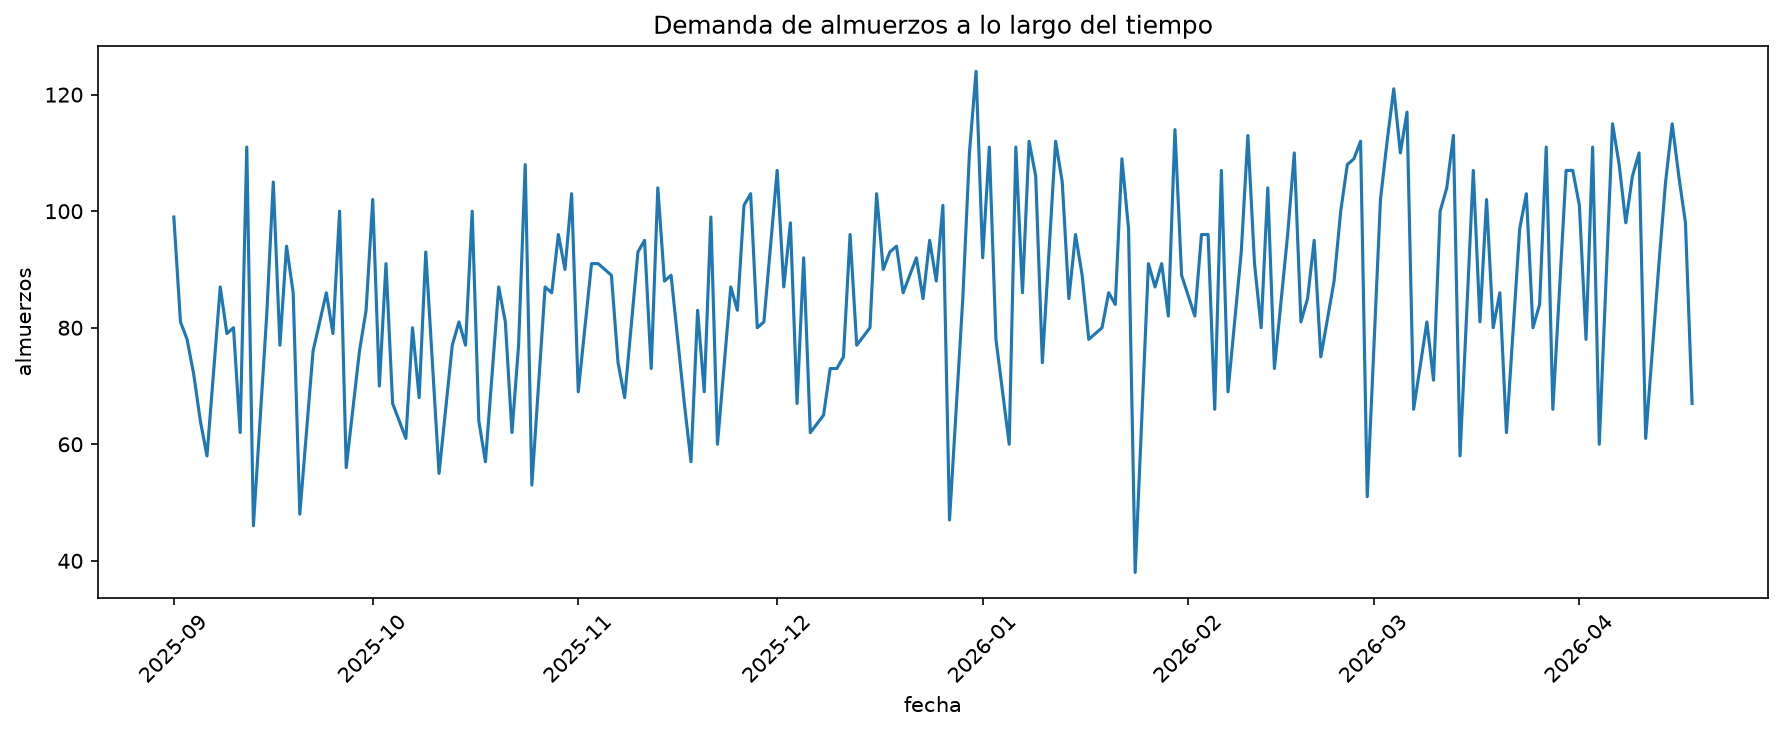
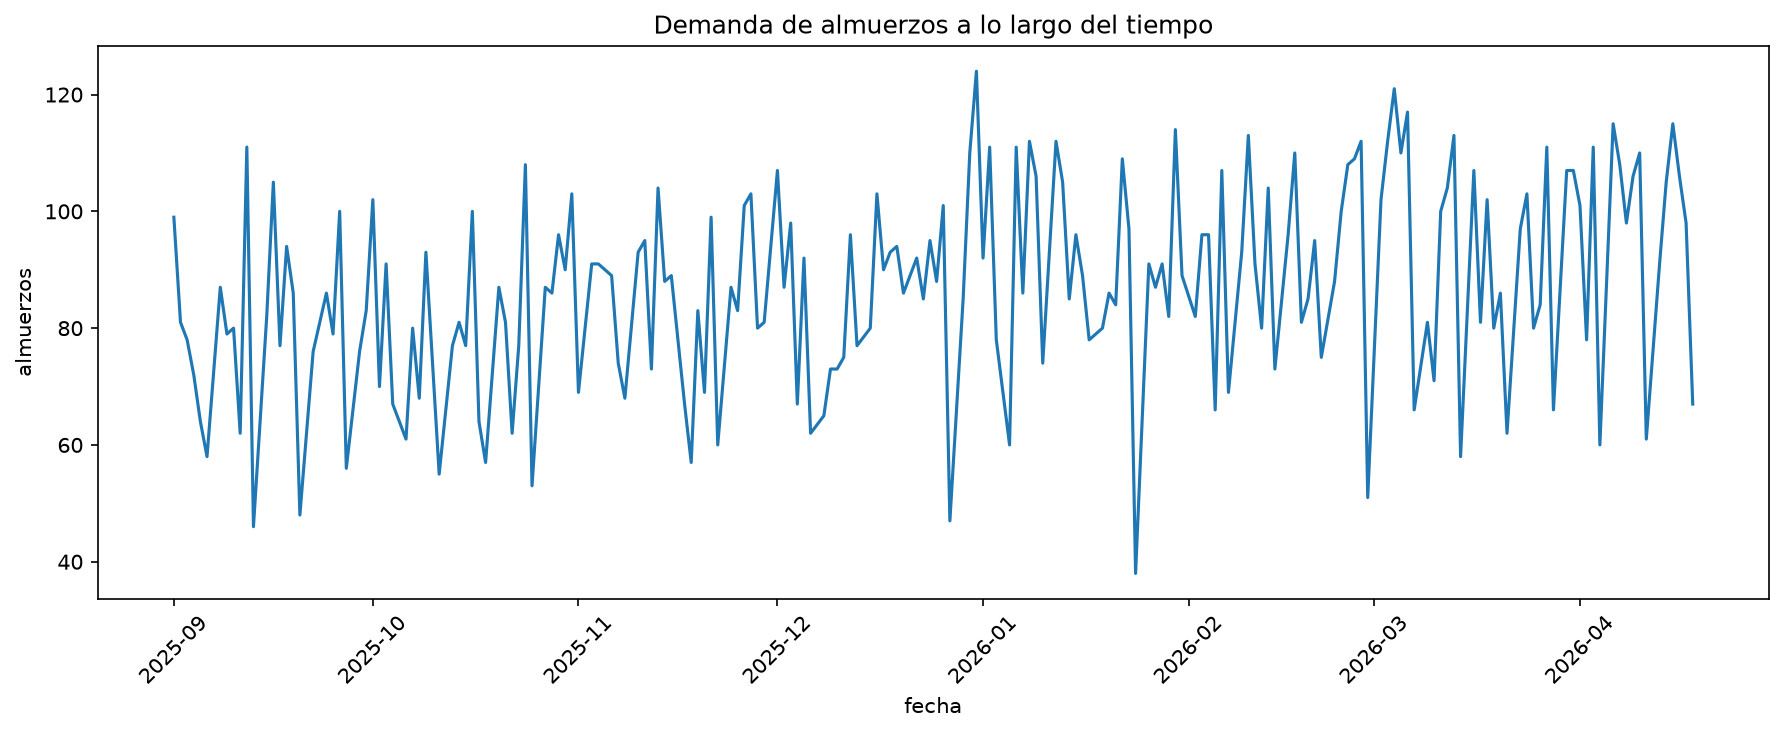
Finalización fase 3
Se crea carpeta resultado para almacenar el resultado de la predicción realizada, que se escribe en el archivo prediccion.csv.

Se aloja el archivo test.csv en la README.md con las respuestas finales

diff --git a/src/predict.py b/src/predict.py
@@ -15,7 +15,5 @@ def main(ruta_test, ruta_salida):
     pd.DataFrame({"fecha": test["fecha"].dt.date, "prediccion": pred.round(1)}).to_csv(ruta_salida, index=False)
     print(f"{len(test)} proyecciones -> {ruta_salida}")
     
-
-
 if __name__ == "__main__":
     main(sys.argv[1], sys.argv[2])

diff --git a/README.md b/README.md
@@ -21,9 +21,9 @@ demanda-sede-ml/
 └── README.md              # este archivo
 ```
 
-## Cómo arrancar
+## Cómo arrancar / Requisitos
 
-**Versión Python:** Python 3.13.14 
+**Versión de Python utilizada:** Python 3.13.14 
 
 ```bash
 # 1. Entorno virtual
@@ -82,12 +82,26 @@ En la gráfica se observa que la cantidad de almuerzos diarios varia considerabl
 
 # Fase 3
 
+Se implementa la siguiente interfaz, para ejecutar el modelo según los datos con fechas futuras para predecir la cantidad de almuerzo que deberían prepararse:
+
+```bash
+python src/predict.py <ruta_features.csv> <ruta_salida.csv>
+```
+
+Para nuestra prueba, se creó el archivo `test.csv` con las últimas 35 filas del original (`almuerzos_entrenamiento.csv`), y se almacenó en la carpeta `data`. Además, se alojó el resultado de la predicción en el archivo `prediccion.csv` con las columnas `fecha` y `prediccion`, que se encuentra en la carpeta `resultado`.  
+
+Para ello, el comando ejecutado en nuestra prueba fue:  
+
+```bash
+python src/predict.py data/test.csv resultado/prediccion.csv
+```
 
 
-Pistas
-El negocio no es el mismo de hace seis meses: mira la serie completa en una gráfica antes de decidir tus features. El tiempo también es información (y a escala nacional, las tendencias mueven millones).
+# Respuesta MAE final
 
-Prueba tu predict.py tú mismo: separa los últimos días de tu CSV como "conjunto oculto casero" y verifica que el contrato corre de punta a punta.
+*Defensa garantizada al final: "¿por qué tu MAE es PEOR que el del analista junior, y por qué eso es una buena noticia para la empresa?"* 
 
-Defensa garantizada al final: "¿por qué tu MAE es PEOR que el del analista junior, y por qué eso es una buena noticia para la empresa?"
+**Respuesta:** El MAE final (10.1 almuerzos) es peor que el de el analista junior, pero representa una buena noticia para la empresa porque considera un rigor y honestidad metodológica para hacer un tratamiento adecuado de los datos, y presentar una estimación más precisa de los almuerzos que deben ser preparados.
+
+Por un lado, no considera las variables `ingreso_dia` y `llovio`, ya que estas generan fuga de datos, al ser información diaria, extraída al final de cada día, que no se tiene al momento de realizar una predicción futura. Sumado a esto, se ajusta la lógica para realizar el escalamiento a los datos de entrenamiento únicamente, y no a los datos de prueba, como lo hacía el analista junior. 
 
